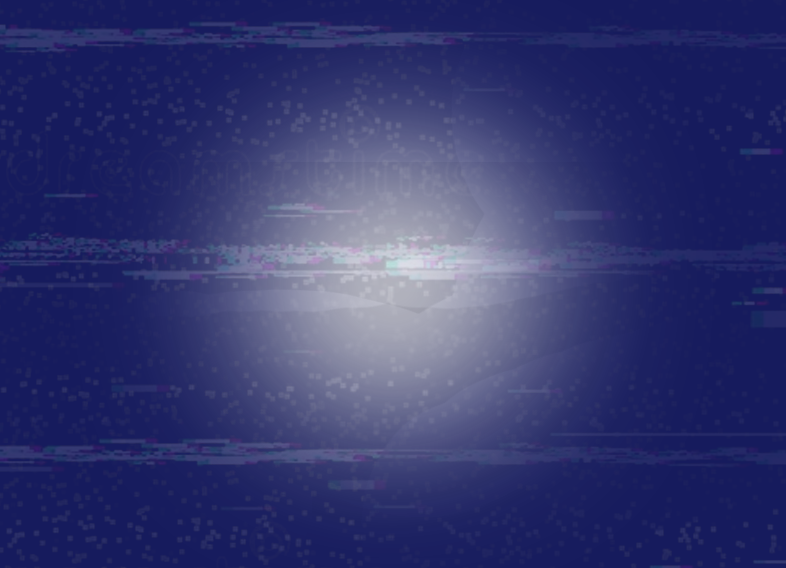
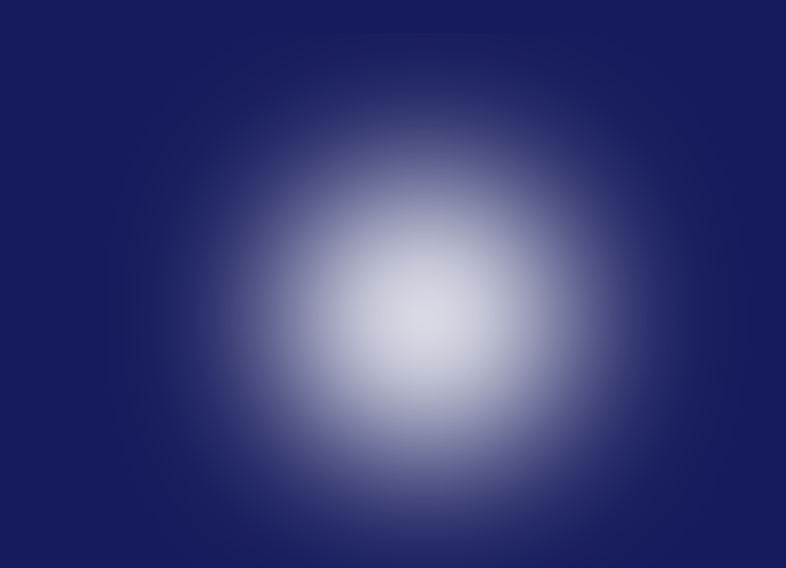
fine tuned day/night transition filter

diff --git a/src/Screens/PlayLevelScreen.java b/src/Screens/PlayLevelScreen.java
@@ -449,11 +449,20 @@ public class PlayLevelScreen extends Screen {
             switch (playLevelScreenState) {
                 case RUNNING:
                     map.draw(player, graphicsHandler);
+                    
+                    graphicsHandler.drawImageAlpha(backgroundFilter, 0, 0, 786, 568,
+                            (float) Math.sin(((double) ((runState.c.getHoursOfDay() * 60 + runState.c.getMinutesOfDay())
+                                    % (12 * 60)) / (12 * 60)) * Math.PI * 2));
+
+
+
                     livesLabels.draw(graphicsHandler);
                     timeLabels.draw(graphicsHandler);
+
                     for (int i = 250; i < 550; i += 50) {
                         graphicsHandler.drawImage(rect, i, 500, 50, 50);
                     }
+                    
                     // just need to add variables for spaces
                     if (Inventory.contains("Axe") == true) {
                         graphicsHandler.drawImage(Axe, 255, 510, 30, 30);
@@ -476,9 +485,6 @@ public class PlayLevelScreen extends Screen {
                     // graphicsHandler.drawFilledRectangle(0, 0, ScreenManager.getScreenWidth(),
                     // ScreenManager.getScreenHeight(), new Color(0, 0, 0,100));
                     // graphicsHandler.drawImage(backgroundFilter, 0, 0);
-                    graphicsHandler.drawImageAlpha(backgroundFilter, 0, 0, 786, 568,
-                            (float) Math.sin(((double) ((runState.c.getHoursOfDay() * 60 + runState.c.getMinutesOfDay())
-                                    % (12 * 60)) / (12 * 60)) * Math.PI * 2));
                     // System.out.println(String.format("Width: %d\tHeight: %d",
                     // ScreenManager.getScreenWidth(), ScreenManager.getScreenHeight()));
                     break;

diff --git a/src/Engine/DayNight/Cycle.java b/src/Engine/DayNight/Cycle.java
@@ -25,7 +25,7 @@ public class Cycle extends Time {
             int h = getHoursOfDay();
             int m = getMinutesOfDay();
             int s = getSecondsOfDay();
-            System.out.printf("%02d:%02d:%02d (%s)\n", h, m, s, state);
+            // System.out.printf("%02d:%02d:%02d (%s)\n", h, m, s, state);
 
             if (timeOfDay == 0) {
                 timeOfDay = MIDNIGHT;
